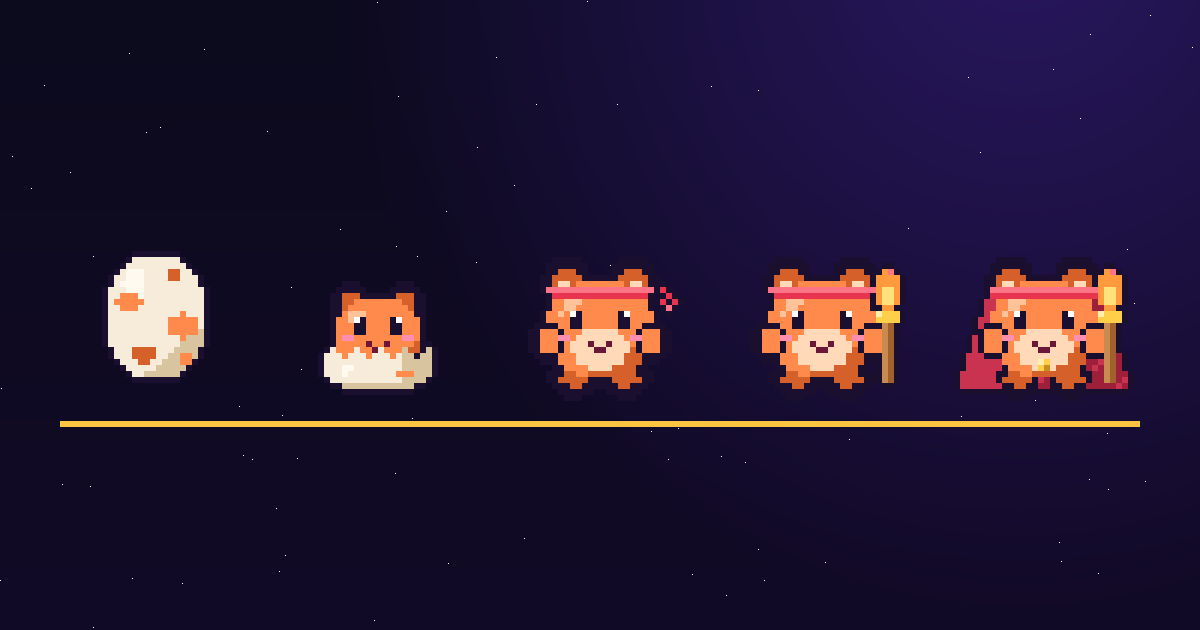
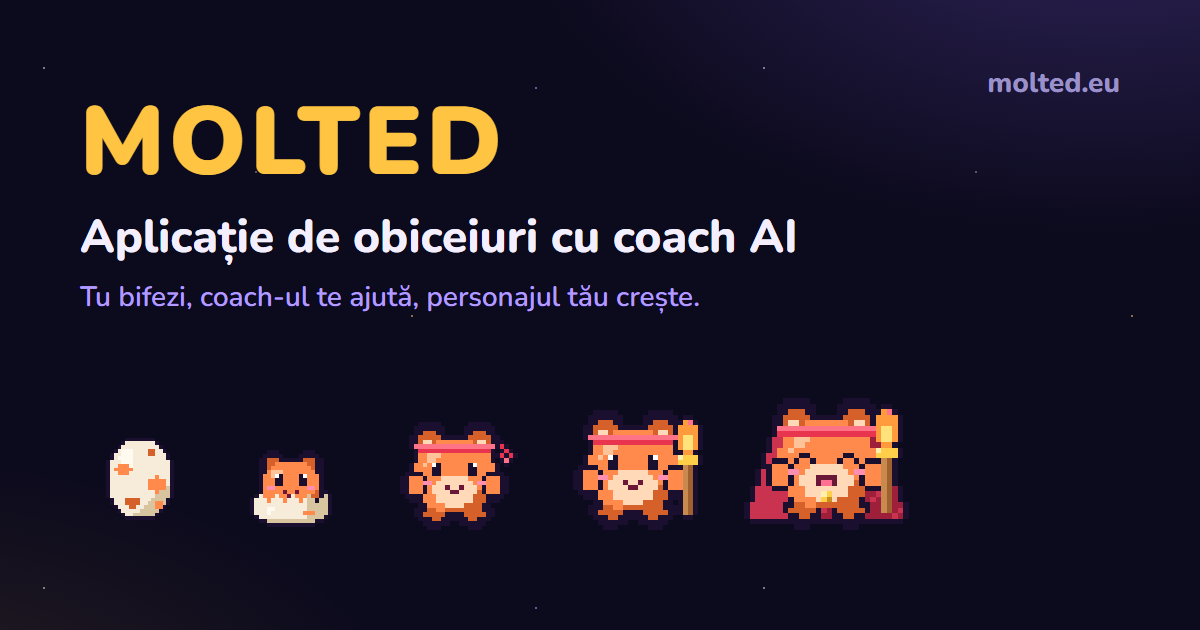
molted.eu SEO: search-facing copy, features section, richer JSON-LD, share cards per language
- Home title/description in both languages aimed at what people search
  ("aplicație de obiceiuri cu coach AI", "habit tracker app with an AI coach"),
  42 chars / 155-158 chars.
- New "Ce găsești în Molted" / "What you get in Molted" section (6 features that
  exist in the app) with its own nav link; three new FAQs (what it is, who it is
  for, what happens to my data). The FAQPage keeps coming from the visible FAQ.
- JSON-LD: Organization and WebSite, and the WebApplication gains free offer,
  16+ audience, sub-category and featureList (from the features section).
- Share cards with text: og.png (ro) and og-en.png (en), og:image per locale,
  og:image:type; scripts/og.mjs renders both with headless Chrome/Edge.
- Team page titles; test and docs updated for the per-locale image.

diff --git a/apps/web/src/i18n/ro.js b/apps/web/src/i18n/ro.js
@@ -1,5 +1,5 @@
 // Romanian copy for the landing site (build-time). Client-side strings live in client.js.
-const OG_ALT = "Molt, personajul din Molted, în cinci stadii: ou, pui, ucenic, adept și maestru.";
+const OG_ALT = "Molted, aplicație de obiceiuri cu coach AI, și personajul Molt de la ou la maestru.";
 
 export default {
   lang: "ro",
@@ -21,15 +21,15 @@ export default {
   },
   meta: {
     home: {
-      title: "Molted: coach AI agentic pentru obiceiuri",
+      title: "Molted: aplicație de obiceiuri cu coach AI",
       description:
-        "Molted are un agent AI care îți analizează obiceiurile, propune schimbări concrete și măsoară dacă au ajutat. Tu confirmi. Plus un joc cu un personaj care evoluează.",
-      ogTitle: "Molted: coach AI agentic pentru obiceiuri",
-      ogDescription: "Un agent AI propune, tu confirmi, iar Molted măsoară efectul.",
+        "Aplicație de obiceiuri cu coach AI: îți analizează progresul, propune pași concreți și îți planifică temele și examenele. Tu bifezi, personajul tău crește.",
+      ogTitle: "Molted: aplicație de obiceiuri cu coach AI",
+      ogDescription: "Un coach AI care știe ce obiceiuri ai, îți propune pași concreți și îți spune de ce. Tu decizi.",
       ogImageAlt: OG_ALT,
     },
     team: {
-      title: "Echipa Molted",
+      title: "Echipa Molted: cine face aplicația",
       description: "Oamenii din spatele Molted: echipa care construiește aplicația de obiceiuri în care personajul tău evoluează.",
       ogTitle: "Echipa Molted",
       ogDescription: "Oamenii din spatele Molted: echipa care construiește aplicația de obiceiuri în care personajul tău evoluează.",
@@ -57,10 +57,10 @@ export default {
     home: "Înapoi la prima pagină",
   },
   home: {
-    ids: { agent: "agentul", faq: "intrebari" },
-    nav: { agent: "Agentul AI", faq: "Întrebări" },
-    kicker: "Coach AI agentic · pentru obiceiuri",
-    h1: "Un agent AI care te ajută să-ți ții obiceiurile",
+    ids: { agent: "agentul", features: "functii", faq: "intrebari" },
+    nav: { agent: "Agentul AI", features: "Funcții", faq: "Întrebări" },
+    kicker: "Aplicație de obiceiuri · coach AI",
+    h1: "Un coach AI care te ajută să-ți ții obiceiurile",
     lead: "Molted nu doar notează ce ai bifat. Un agent îți citește istoricul, caută în surse, propune o schimbare concretă și, după două săptămâni, verifică dacă a ajutat. Tu hotărăști mereu.",
     ctaAgent: "Cum gândește agentul",
     mockAria: "Exemplu ilustrativ: o propunere a agentului",
@@ -89,6 +89,15 @@ export default {
     weeklyAria: "Exemplu ilustrativ: rularea săptămânală",
     weeklyTitle: "Duminică, 18:00 · rulare automată (opțional)",
     weeklyText: "Agentul face singur bilanțul săptămânii, îți pregătește un pas mic pentru luni și îl notează în istoric. Îl poți opri oricând din Setări.",
+    featuresH2: "Ce găsești în Molted",
+    features: [
+      { title: "Habit tracker", text: "Obiceiuri cu zile, oră și țintă. Le bifezi, ții serii și strângi momentum prin 10 niveluri." },
+      { title: "Coach AI", text: "Vorbește cu tine știind ce obiceiuri, obiective și taskuri ai. Propune pași concreți și îți spune de ce." },
+      { title: "Planificator pentru teme și examene", text: "Scrii cum vorbești, de exemplu „test la mate joi”, iar Molted pune examenul în calendar." },
+      { title: "Obiective în pași mici", text: "Un obiectiv mare devine pași de făcut săptămâna asta, cu sesiuni Focus când ai nevoie." },
+      { title: "Revenire după pauză", text: "Dacă ai lipsit, nu primești tot programul înapoi, ci un pas mic: varianta ușoară a unui obicei." },
+      { title: "Grupuri cu prietenii", text: "Intrați cu un cod, vă vedeți în clasamentul săptămânal și vă trimiteți remindere." },
+    ],
     numbersH2: "Molted în cifre",
     numbersIntro: "Totaluri adunate de la toți jucătorii, fără nimic personal.",
     numbers: { users: "Jucători", active7: "Activi în 7 zile", checkins: "Bife de obiceiuri", objectives: "Obiective", todos: "To-do-uri făcute" },
@@ -105,17 +114,20 @@ export default {
     ],
     faqH2: "Întrebări frecvente",
     faq: [
+      { q: "Ce este Molted?", a: "O aplicație de obiceiuri (habit tracker) cu un coach AI. Îți bifezi obiceiurile, coach-ul îți analizează progresul și propune pași concreți, iar un personaj din joc evoluează odată cu tine." },
+      { q: "Ce face agentul AI?", a: "Un agent îți analizează obiceiurile cu unelte proprii (statistici, tipare, surse), propune acțiuni concrete și, după confirmarea ta, le aplică și le măsoară. Mai scrie raportul zilei și capitole din povestea lui Molt." },
+      { q: "Pentru cine este Molted?", a: "Pentru oricine vrea să-și țină obiceiurile, de la 16 ani în sus (sau mai devreme, cu acordul unui părinte). Planificatorul de teme și examene e gândit mai ales pentru elevi și studenți." },
       { q: "De unde primesc personajul?", a: "La început primești un ou. Drumul pe care îl alegi (Sport, Studiu, Bani, Minte sau Creativitate) decide ce creatură iese din el: Atlet, Cărturar, Negustor, Înțelept sau Bard." },
       { q: "Ce se întâmplă dacă ratez zile?", a: "Personajul nu moare, doar doarme cât lipsești. O zi ratată scade puțin momentum-ul, iar după 3 zile la rând fără activitate (poți alege între 2 și 5) revine la zero. Seria poate fi salvată cu 2 revive-uri pe lună." },
-      { q: "Ce face agentul AI?", a: "Un agent îți analizează obiceiurile cu unelte proprii (statistici, tipare, surse), propune acțiuni concrete și, după confirmarea ta, le aplică și le măsoară. Mai scrie raportul zilei și capitole din povestea lui Molt." },
       { q: "Cum funcționează grupurile?", a: "Creezi un grup sau un partener de progres și primești un cod de invitație de 6 caractere. Membrii apar într-un clasament săptămânal și își pot trimite remindere." },
+      { q: "Ce se întâmplă cu datele mele?", a: "Le folosim doar ca să funcționeze aplicația. Nu vindem datele și nu afișăm reclame. AI-ul primește doar textul de care are nevoie, de exemplu numele obiceiurilor și câte ai bifat, nu emailul tău." },
       { q: "Trebuie să instalez ceva?", a: "Nu. Molted este o aplicație web: o deschizi în browser, la app.molted.eu.", link: true },
     ],
     ctaH2: "Oul tău te așteaptă",
     ctaText: "Alege un drum, bifează primul obicei și vezi ce iese.",
     eggAlt: "Un ou, începutul lui Molt",
     appDescription:
-      "Coach AI agentic pentru obiceiuri: analizează istoricul, propune acțiuni, le aplică după confirmare și măsoară efectul. Plus gamificare, planificator și grupuri.",
+      "Aplicație de obiceiuri (habit tracker) cu un coach AI care analizează progresul, propune pași concreți și îi aplică doar după confirmare. Include planificator pentru teme și examene, obiective, sesiuni Focus, grupuri și un personaj care evoluează.",
   },
   team: {
     h1: "Echipa",

diff --git a/apps/web/src/i18n/en.js b/apps/web/src/i18n/en.js
@@ -1,5 +1,5 @@
 // English copy for the landing site (build-time). Client-side strings live in client.js.
-const OG_ALT = "Molt, the character from Molted, in five stages: egg, hatchling, apprentice, adept and master.";
+const OG_ALT = "Molted, a habit tracker app with an AI coach, and its character Molt from egg to master.";
 
 export default {
   lang: "en",
@@ -21,15 +21,15 @@ export default {
   },
   meta: {
     home: {
-      title: "Molted: an agentic AI coach for your habits",
+      title: "Molted: habit tracker app with an AI coach",
       description:
-        "Molted has an AI agent that analyzes your habits, proposes concrete changes and measures whether they helped. You confirm. Plus a game with a character that evolves.",
-      ogTitle: "Molted: an agentic AI coach for your habits",
-      ogDescription: "An AI agent proposes, you confirm, and Molted measures the effect.",
+        "A habit tracker with an AI coach: it analyzes your progress, proposes concrete steps and plans your homework and exams. You tick habits, your character grows.",
+      ogTitle: "Molted: habit tracker app with an AI coach",
+      ogDescription: "An AI coach that knows your habits, proposes concrete steps and tells you why. You decide.",
       ogImageAlt: OG_ALT,
     },
     team: {
-      title: "The Molted team",
+      title: "The Molted team: who builds the app",
       description: "The people behind Molted: the team building the habit app where your character evolves.",
       ogTitle: "The Molted team",
       ogDescription: "The people behind Molted: the team building the habit app where your character evolves.",
@@ -57,10 +57,10 @@ export default {
     home: "Back to the home page",
   },
   home: {
-    ids: { agent: "agent", faq: "faq" },
-    nav: { agent: "AI agent", faq: "FAQ" },
-    kicker: "Agentic AI coach · for habits",
-    h1: "An AI agent that helps you keep your habits",
+    ids: { agent: "agent", features: "features", faq: "faq" },
+    nav: { agent: "AI agent", features: "Features", faq: "FAQ" },
+    kicker: "Habit tracker · AI coach",
+    h1: "An AI coach that helps you keep your habits",
     lead: "Molted does not just log what you ticked. An agent reads your history, looks things up in sources, proposes one concrete change and, two weeks later, checks whether it helped. You always decide.",
     ctaAgent: "How the agent thinks",
     mockAria: "Illustrative example: a proposal from the agent",
@@ -89,6 +89,15 @@ export default {
     weeklyAria: "Illustrative example: the weekly run",
     weeklyTitle: "Sunday, 6:00 PM · automatic run (optional)",
     weeklyText: "The agent reviews your week on its own, prepares one small step for Monday and writes it into the history. You can turn it off at any time in Settings.",
+    featuresH2: "What you get in Molted",
+    features: [
+      { title: "Habit tracker", text: "Habits with days, a time and a target. You tick them, keep streaks and build momentum through 10 levels." },
+      { title: "AI coach", text: "It talks to you knowing your habits, goals and tasks. It proposes concrete steps and tells you why." },
+      { title: "Homework and exam planner", text: "Write it the way you talk, for example “math test on Thursday”, and Molted puts the exam in your calendar." },
+      { title: "Goals in small steps", text: "A big goal becomes steps for this week, with Focus sessions when you need them." },
+      { title: "Back after a break", text: "If you were away, you do not get the whole schedule back at once, just one small step: the easy version of a habit." },
+      { title: "Groups with friends", text: "Join with a code, see each other on the weekly leaderboard and send reminders." },
+    ],
     numbersH2: "Molted in numbers",
     numbersIntro: "Totals gathered from all players, with nothing personal.",
     numbers: { users: "Players", active7: "Active in 7 days", checkins: "Habit check-ins", objectives: "Objectives", todos: "To-dos done" },
@@ -105,17 +114,20 @@ export default {
     ],
     faqH2: "Frequently asked questions",
     faq: [
+      { q: "What is Molted?", a: "A habit tracker app with an AI coach. You tick your habits, the coach analyzes your progress and proposes concrete steps, and a character from the game evolves with you." },
+      { q: "What does the AI agent do?", a: "An agent analyzes your habits with its own tools (statistics, patterns, sources), proposes concrete actions and, after you confirm, applies and measures them. It also writes the day's report and chapters of Molt's story." },
+      { q: "Who is Molted for?", a: "Anyone who wants to keep their habits, from 16 years old (or younger, with a parent's consent). The homework and exam planner is made mainly for students." },
       { q: "Where do I get my character?", a: "You start with an egg. The path you choose (Sport, Study, Money, Mind or Creativity) decides which creature hatches from it: Athlete, Scholar, Merchant, Sage or Bard." },
       { q: "What happens if I miss days?", a: "Your character does not die, it just sleeps while you are away. A missed day lowers momentum a little, and after 3 days in a row with no activity (you can choose between 2 and 5) it goes back to zero. A streak can be saved with 2 revives per month." },
-      { q: "What does the AI agent do?", a: "An agent analyzes your habits with its own tools (statistics, patterns, sources), proposes concrete actions and, after you confirm, applies and measures them. It also writes the day's report and chapters of Molt's story." },
       { q: "How do groups work?", a: "You create a group or a progress partner and get a 6-character invitation code. Members appear on a weekly leaderboard and can send each other reminders." },
+      { q: "What happens to my data?", a: "We use it only to make the app work. We do not sell data and we do not show ads. The AI only gets the text it needs, for example the names of your habits and how many you ticked, not your email." },
       { q: "Do I need to install anything?", a: "No. Molted is a web app: you open it in your browser, at app.molted.eu. The app interface is currently available in Romanian only.", link: true },
     ],
     ctaH2: "Your egg is waiting",
     ctaText: "Pick a path, tick your first habit and see what hatches.",
     eggAlt: "An egg, the beginning of Molt",
     appDescription:
-      "An agentic AI coach for habits: it analyzes your history, proposes actions, applies them after you confirm and measures the effect. Plus gamification, a planner and groups.",
+      "A habit tracker app with an AI coach that analyzes your progress, proposes concrete steps and applies them only after you confirm. It includes a homework and exam planner, goals, Focus sessions, groups and a character that evolves.",
   },
   team: {
     h1: "Team",

diff --git a/apps/web/src/seo.js b/apps/web/src/seo.js
@@ -2,7 +2,8 @@
 // Pure functions: the output is plain HTML strings so the metadata is in the initial response, not added by scripts.
 import { SITE_URL, absoluteUrl, alternates, availableLocales, isAvailable } from "./i18n/routes.js";
 
-export const OG_IMAGE = `${SITE_URL}/og.png`;
+/** The share card has text on it, so each language gets its own (scripts/og.mjs writes both). */
+export const ogImage = (locale) => `${SITE_URL}/${locale === "ro" ? "og.png" : `og-${locale}.png`}`;
 export const esc = (s) => String(s ?? "").replace(/[&<>"']/g, (c) => ({ "&": "&amp;", "<": "&lt;", ">": "&gt;", '"': "&quot;", "'": "&#39;" })[c]);
 
 const FONTS = `    <link rel="preconnect" href="https://fonts.googleapis.com" />
@@ -28,6 +29,7 @@ export function renderHead({ route, locale, t, styles = "tailwind", script, json
   const m = t.meta[route.key];
   const url = urlOverride || absoluteUrl(route, locale);
   const otherLocales = availableLocales(route).filter((l) => l !== locale);
+  const OG_IMAGE = ogImage(locale);
   const lines = [
     `    <meta charset="UTF-8" />`,
     `    <meta name="viewport" content="width=device-width, initial-scale=1, viewport-fit=cover" />`,
@@ -46,6 +48,7 @@ export function renderHead({ route, locale, t, styles = "tailwind", script, json
     `    <meta property="og:description" content="${esc(m.ogDescription)}" />`,
     `    <meta property="og:url" content="${url}" />`,
     `    <meta property="og:image" content="${OG_IMAGE}" />`,
+    `    <meta property="og:image:type" content="image/png" />`,
     `    <meta property="og:image:width" content="1200" />`,
     `    <meta property="og:image:height" content="630" />`,
     `    <meta property="og:image:alt" content="${esc(m.ogImageAlt)}" />`,
@@ -66,17 +69,33 @@ export function renderHead({ route, locale, t, styles = "tailwind", script, json
 /** Structured data for the home page, built from the same visible FAQ so the two can never disagree. */
 export function homeJsonLd(t, locale, route) {
   const url = absoluteUrl(route, locale);
+  const org = `${SITE_URL}/#org`;
   return {
     "@context": "https://schema.org",
     "@graph": [
+      {
+        "@type": "Organization",
+        "@id": org,
+        name: "Molted",
+        url: `${SITE_URL}/`,
+        logo: { "@type": "ImageObject", url: `${SITE_URL}/icons/apple-touch-icon.png`, width: 180, height: 180 },
+        email: "admin@example.com",
+      },
+      { "@type": "WebSite", "@id": `${SITE_URL}/#website`, name: "Molted", url: `${SITE_URL}/`, inLanguage: availableLocales(route), publisher: { "@id": org } },
       {
         "@type": "WebApplication",
         name: "Molted",
         url: "https://app.molted.eu",
         description: t.home.appDescription,
         applicationCategory: "LifestyleApplication",
+        applicationSubCategory: "Habit tracker",
         operatingSystem: "Web",
-        inLanguage: "ro",
+        inLanguage: "ro", // the app itself is Romanian only
+        isAccessibleForFree: true, // the terms: "Aplicația este gratuită în forma actuală"
+        offers: { "@type": "Offer", price: "0", priceCurrency: "RON" },
+        audience: { "@type": "PeopleAudience", suggestedMinAge: 16 },
+        featureList: t.home.features.map((f) => f.title),
+        publisher: { "@id": org },
       },
       {
         "@type": "FAQPage",

diff --git a/apps/web/src/pages.js b/apps/web/src/pages.js
@@ -74,6 +74,7 @@ ${header(
     locale,
     t,
     `        <a href="#${h.ids.agent}" class="hidden text-dim hover:text-ink sm:inline">${esc(h.nav.agent)}</a>
+        <a href="#${h.ids.features}" class="hidden text-dim hover:text-ink md:inline">${esc(h.nav.features)}</a>
         <a href="#${h.ids.faq}" class="hidden text-dim hover:text-ink sm:inline">${esc(h.nav.faq)}</a>
         <a href="${link("team", locale)}" class="hidden text-dim hover:text-ink sm:inline">${esc(t.common.team)}</a>
 ${isAvailable(routeByKey("giveaways"), locale) ? `        <a href="${link("giveaways", locale)}" class="hidden text-dim hover:text-ink sm:inline">${esc(RO_ONLY.common.giveaways)}</a>
@@ -121,6 +122,13 @@ ${h.control.map((c) => `            <li class="tick">${esc(c)}</li>`).join("\n")
           <p class="text-xs font-bold uppercase tracking-wider text-dim">${esc(h.weeklyTitle)}</p>
           <p class="mt-2 text-sm">${esc(h.weeklyText)}</p>
         </figure>
+      </section>
+
+      <section id="${h.ids.features}" class="mx-auto max-w-6xl scroll-mt-6 px-5 py-16" aria-labelledby="t-functii">
+        <h2 id="t-functii" class="font-pixel text-3xl font-bold text-ink">${esc(h.featuresH2)}</h2>
+        <ul class="mt-8 grid gap-5 sm:grid-cols-2 lg:grid-cols-3">
+${h.features.map((f) => `          <li class="mock"><h3 class="font-pixel text-xl font-bold text-ink">${esc(f.title)}</h3><p class="mt-2 text-sm">${esc(f.text)}</p></li>`).join("\n")}
+        </ul>
       </section>
 
       <!-- numbers: shown only when the server answers (see src/main.js) -->

diff --git a/docs/LOCALIZATION.md b/docs/LOCALIZATION.md
@@ -44,5 +44,5 @@ Add a route to `ROUTES`, add its copy (`meta.<key>` in both dictionaries), a ren
 ## Known limits
 
 - The app at `app.molted.eu` is Romanian only. English pages link to it and the English FAQ says so.
-- `og.png` has no text, so the same image is used for both languages (alt text is localized).
+- The share card has text, so there is one per language: `og.png` (Romanian) and `og-en.png`, both written by `node apps/web/scripts/og.mjs` (headless Chrome or Edge) and committed.
 - No `lastmod` in the sitemap (no reliable per-page date).
